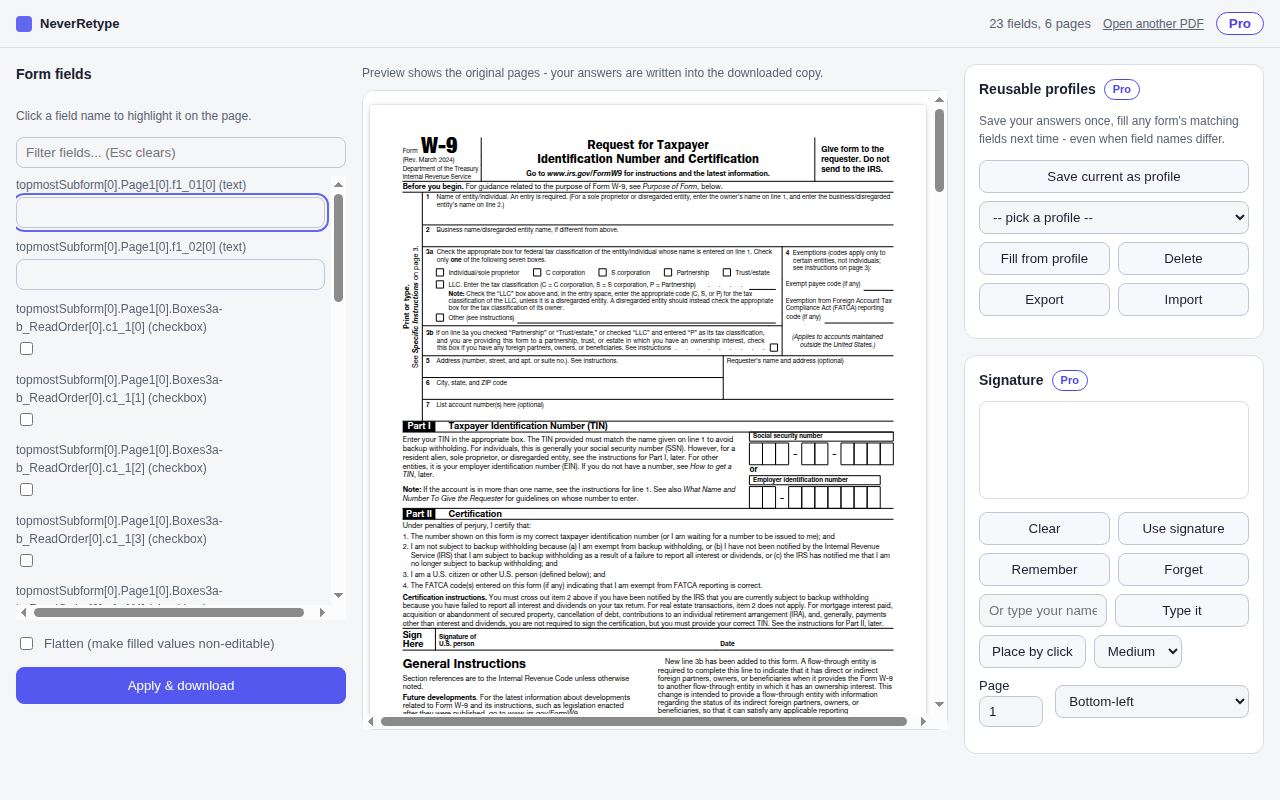
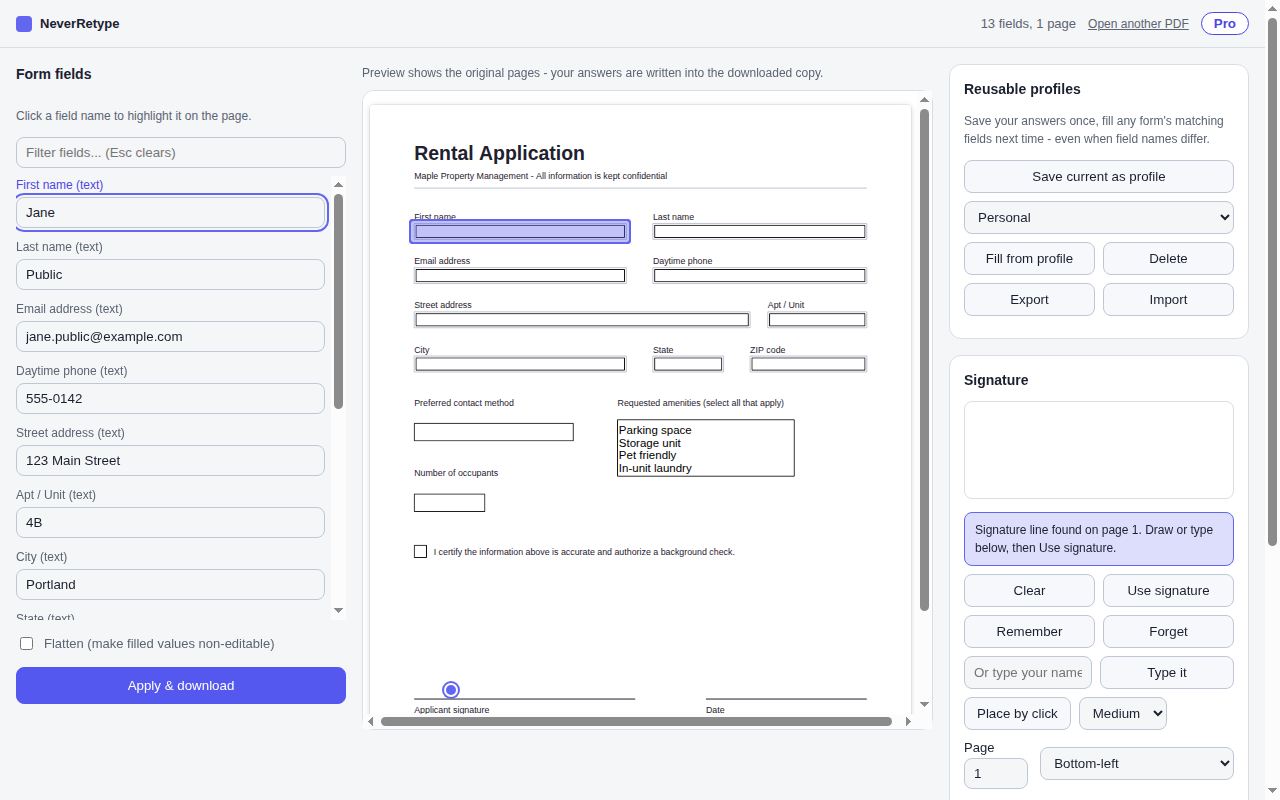
Fresh screenshots (filled hero, smart-refill offer, signature-line detection), evaluation-license terms line, compliance-principles line

diff --git a/index.html b/index.html
@@ -29,7 +29,7 @@
       <a class="cta" href="#" data-store-link>Add to Chrome</a>
       <p class="micro">Free for 30 days. Everything unlocked. After that, keep profiles, smart refill, and advanced signing for $19 once. Basic filling stays free forever.</p>
       <p class="trust-row">No upload &middot; No account &middot; No subscription &middot; Local profiles &middot; Works with real fillable PDFs</p>
-      <img class="hero-shot" src="editor-screenshot.png" alt="The NeverRetype editor with a W-9 open: field list on the left, live page preview on the right" loading="lazy" />
+      <img class="hero-shot" src="editor-screenshot.png" alt="The NeverRetype editor with a rental application open: answers filled from a saved profile on the left, the first-name field highlighted on the live page preview" loading="lazy" />
     </section>
 
     <section id="features" class="features">
@@ -56,12 +56,25 @@
       <div class="card">
         <h3>Pay once, if you stay</h3>
         <p>Try everything free for 30 days. One $19 purchase keeps profiles, import/export, and signing forever - and "Restore purchase" brings it back on any machine. You never pay twice, and your data is never held hostage.</p>
+        <p class="micro">Free trial for evaluation. Continued business or commercial use requires the one-time license.</p>
       </div>
+    </section>
+
+    <section class="shots" aria-label="Screenshots">
+      <figure>
+        <img src="shot-smart-refill.png" alt="A nine-page court form just opened in NeverRetype, with a bar offering: 50 fields match answers you've used before - Fill them" loading="lazy" />
+        <figcaption>Open the next form and your answers are already waiting - one click fills every matching field, you review, you download.</figcaption>
+      </figure>
+      <figure>
+        <img src="shot-signature.png" alt="A government form with no signature field: NeverRetype found the printed signature line on page 3 and placed a typed signature on it" loading="lazy" />
+        <figcaption>No signature field on the form? NeverRetype finds the printed signature line and stamps yours right on it.</figcaption>
+      </figure>
     </section>
 
     <section id="privacy" class="band">
       <h2>Your PDF never leaves your computer</h2>
       <p>Many PDF filler tools upload your document to a server or push you into an account before you can download your own file. NeverRetype does neither, on purpose. No upload, no account, no analytics, no telemetry. Read the full <a href="privacy-policy.html">privacy policy</a>.</p>
+      <p class="micro">Built with SOC2 and GDPR principles in mind - everything stays on your machine, nothing is collected, there is no vendor data flow to review.</p>
       <p class="micro">NeverRetype works with fillable PDF forms (the standard AcroForm kind). Scanned paper PDFs can still be signed, but they contain no fields to fill.</p>
     </section>
 

diff --git a/style.css b/style.css
@@ -63,3 +63,8 @@ footer {
 
 .trust-row { color: var(--muted); font-size: 13px; letter-spacing: 0.2px; margin-top: 10px; }
 .hero-shot { width: 100%; max-width: 880px; margin-top: 28px; border-radius: 12px; border: 1px solid var(--border); box-shadow: 0 12px 40px rgba(0,0,0,0.45); }
+
+.shots { display: grid; grid-template-columns: repeat(auto-fit, minmax(320px, 1fr)); gap: 24px; max-width: 1100px; margin: 8px auto 48px; padding: 0 20px; }
+.shots figure { margin: 0; }
+.shots img { width: 100%; border-radius: 12px; border: 1px solid var(--border); box-shadow: 0 12px 40px rgba(0,0,0,0.45); }
+.shots figcaption { margin-top: 10px; font-size: 0.92rem; opacity: 0.75; }
